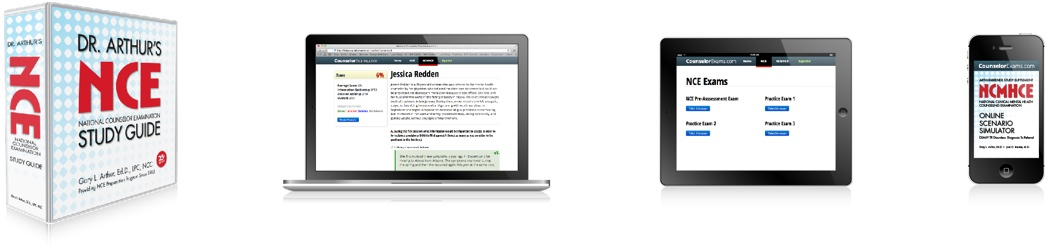
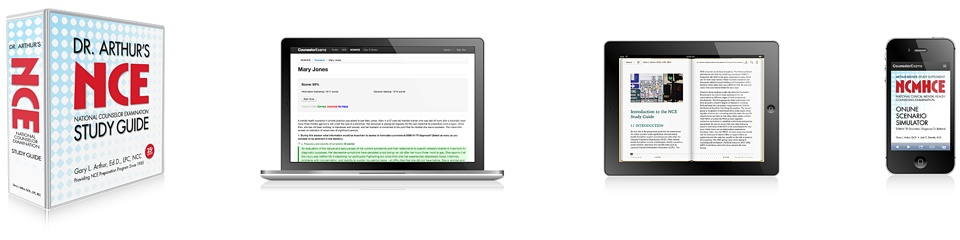
Updates all product images with current screen shots, closes #39

diff --git a/views/marketing/ncmhce.html b/views/marketing/ncmhce.html
@@ -16,7 +16,7 @@
 		</p>
 	</div>
 	<div class="span8">
-		<p><img src="/img/ncmhce-group-wide.png" /></p>
+		<p><img src="/img/ncmhceGroup.jpg" /></p>
 	</div>
 	<div class="span12">
 		<p class="lead">We are very proud that 95% of our customers passed their exam in 2011!<sup>1</sup></p>
@@ -154,12 +154,12 @@
 
 <div class="row">
 	<div class="span6">
-		<p><img src="/img/ncmhce-scenario.png" style="width: 67%;" /></p>
+		<p><img src="/img/ncmhce-scenario.jpg" style="width: 67%;" /></p>
 		<h2>NCMHCE Online Scenario Simulator</h2>
 		<p>The Arthur-Brende Scenario Simulator includes 36 online scenarios that emulate the actual NCMHCE exam, measuring your information gathering and decision making abilities. Each includes one or more of the five axis as found in the DSM-IV-TR diagnostic manual. Scenarios may be taken multiple times for up to a full year allowing you to learn at your own pace.</p>
 	</div>
 	<div class="span6">
-		<p><img src="/img/ncmhce-supp.png" style="width: 67%;" /></p>
+		<p><img src="/img/ncmhce-supp.jpg" style="width: 67%;" /></p>
 		<h2>NCMHCE Study Supplement</h2>
 		<p>The Arthur-Brende Study Supplement, an overview of the DSM-IV-TR disorders, is comprehensive in scope, while succinct in description, providing Definition, Incident, and Treatment information of each disorder. This overview of the actual NCMHCE and study/test taking strategies is included with your Scenario Simulator purchase - available in hardcopy and eBook.</p>
 	</div>

diff --git a/views/marketing/nce.html b/views/marketing/nce.html
@@ -16,7 +16,7 @@
 		</p>
 	</div>
 	<div class="span8">
-		<p><img src="/img/nce-group-wide.png" /></p>
+		<p><img src="/img/nce-group.jpg" /></p>
 	</div>
 	<div class="span12">
 		<br />
